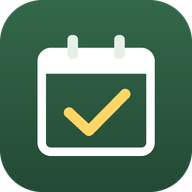
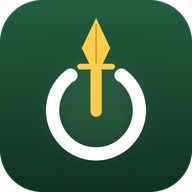
Add files via upload

diff --git a/index.html b/index.html
@@ -3,26 +3,26 @@
 <head>
 <meta charset="utf-8">
 <meta name="viewport" content="width=device-width, initial-scale=1, maximum-scale=1, viewport-fit=cover">
-<title>중대 현황</title>
-<meta name="description" content="휴가·외출·상벌점 현황관리">
-<meta name="theme-color" content="#2f5d43">
+<title>광개토 ON</title>
+<meta name="description" content="광개토 ON — 휴가·외출·상벌점·소통">
+<meta name="theme-color" content="#1e4a33">
 <link rel="manifest" href="manifest.webmanifest">
 <link rel="icon" href="icons/favicon.png">
 <!-- 아이폰 홈 화면용 -->
 <link rel="apple-touch-icon" href="icons/apple-touch-icon.png">
 <meta name="apple-mobile-web-app-capable" content="yes">
 <meta name="mobile-web-app-capable" content="yes">
-<meta name="apple-mobile-web-app-title" content="중대 현황">
+<meta name="apple-mobile-web-app-title" content="광개토 ON">
 <meta name="apple-mobile-web-app-status-bar-style" content="black-translucent">
 <style>
-  html,body{margin:0;height:100%;background:#2f5d43;overflow:hidden;font-family:-apple-system,BlinkMacSystemFont,"Apple SD Gothic Neo","Malgun Gothic",sans-serif}
+  html,body{margin:0;height:100%;background:#1e4a33;overflow:hidden;font-family:-apple-system,BlinkMacSystemFont,"Apple SD Gothic Neo","Malgun Gothic",sans-serif}
   #app{position:fixed;inset:0;width:100%;height:100%;border:0;background:#f2f4f1;padding-top:env(safe-area-inset-top);box-sizing:border-box}
-  body.standalone #app{background:#2f5d43}
+  body.standalone #app{background:#1e4a33}
 
   /* 시작 화면 */
-  #splash{position:fixed;inset:0;z-index:5;background:#2f5d43;display:flex;flex-direction:column;align-items:center;justify-content:center;color:#fff;transition:opacity .35s}
+  #splash{position:fixed;inset:0;z-index:5;background:#1e4a33;display:flex;flex-direction:column;align-items:center;justify-content:center;color:#fff;transition:opacity .35s}
   #splash img{width:96px;height:96px;border-radius:22px;box-shadow:0 8px 24px rgba(0,0,0,.25)}
-  #splash b{margin-top:18px;font-size:20px;letter-spacing:-.3px}
+  #splash b{margin-top:18px;font-size:24px;letter-spacing:-.3px}
   #splash span{margin-top:6px;font-size:13px;opacity:.75}
   #splash.hide{opacity:0;pointer-events:none}
   #splash .dots{display:flex;gap:6px;margin-top:26px}
@@ -41,29 +41,39 @@
   #install .steps{margin:12px 0 0;padding:12px 14px;background:#f2f4f1;border-radius:12px;font-size:14px;line-height:1.7}
   #install .btns{display:grid;grid-template-columns:1fr 2fr;gap:8px;margin-top:12px}
   #install button{min-height:48px;border:0;border-radius:12px;font:inherit;font-size:15px;font-weight:700;background:#f2f4f1;color:#1b211d}
-  #install button.go{background:#2f5d43;color:#fff}
+  #install button.go{background:#1e4a33;color:#fff}
   .share-ic{display:inline-block;width:18px;height:18px;vertical-align:-3px}
+
+  #pushsheet{position:fixed;inset:0;z-index:8;background:rgba(0,0,0,.45);display:none;align-items:flex-end;justify-content:center}
+  #pushsheet.show{display:flex}
+  #pushsheet .in{width:100%;max-width:520px;background:#fff;border-radius:20px 20px 0 0;padding:24px 16px calc(16px + env(safe-area-inset-bottom));text-align:center;color:#1b211d;animation:up .2s ease-out}
+  #pushsheet .bell{width:56px;height:56px;margin:0 auto 12px;border-radius:16px;background:#e2ede5;color:#2f5d43;display:flex;align-items:center;justify-content:center}
+  #pushsheet b{display:block;font-size:18px}
+  #pushsheet p{margin:8px 0 18px;color:#68726c;font-size:14px;line-height:1.5}
+  #pushsheet .two{display:grid;grid-template-columns:1fr 2fr;gap:8px}
+  #pushsheet button{min-height:52px;border:0;border-radius:12px;font:inherit;font-size:16px;font-weight:700;background:#f2f4f1;color:#1b211d}
+  #pushsheet button.go{background:#1e4a33;color:#fff}
 
   #offline{position:fixed;inset:0;z-index:7;background:#f2f4f1;display:none;flex-direction:column;align-items:center;justify-content:center;text-align:center;padding:24px;color:#1b211d}
   #offline.show{display:flex}
-  #offline button{margin-top:18px;min-height:48px;padding:0 28px;border:0;border-radius:12px;background:#2f5d43;color:#fff;font:inherit;font-weight:700}
+  #offline button{margin-top:18px;min-height:48px;padding:0 28px;border:0;border-radius:12px;background:#1e4a33;color:#fff;font:inherit;font-weight:700}
 </style>
 </head>
 <body>
 
 <div id="splash">
   <img src="icons/icon-192.png" alt="">
-  <b>중대 현황</b>
-  <span>휴가 · 외출 · 상벌점</span>
+  <b>광개토 ON</b>
+  <span>출타 · 상벌점 · 소통</span>
   <div class="dots"><i></i><i></i><i></i></div>
 </div>
 
-<iframe id="app" title="중대 현황" allow="clipboard-write"></iframe>
+<iframe id="app" title="광개토 ON" allow="clipboard-write"></iframe>
 
 <div id="install">
   <div class="h">
     <img src="icons/icon-192.png" alt="">
-    <div><b>홈 화면에 앱 설치</b><small>다음부터 아이콘을 눌러 바로 여세요</small></div>
+    <div><b>광개토 ON 설치</b><small>홈 화면에 추가하고 아이콘으로 바로 여세요</small></div>
   </div>
   <div class="steps" id="ios-steps" hidden>
     ① 화면 아래 <b>공유</b> 버튼
@@ -80,16 +90,28 @@
   </div>
 </div>
 
+<div id="pushsheet">
+  <div class="in">
+    <div class="bell"><svg width="28" height="28" viewBox="0 0 24 24" fill="none" stroke="currentColor" stroke-width="2" stroke-linecap="round"><path d="M18 8a6 6 0 0 0-12 0c0 7-3 9-3 9h18s-3-2-3-9"/><path d="M13.7 21a2 2 0 0 1-3.4 0"/></svg></div>
+    <b>알림을 켤까요?</b>
+    <p>가입·상벌점 승인, 의견 답변 같은 소식을<br>휴대폰 알림으로 바로 받을 수 있습니다.</p>
+    <div class="two"><button onclick="closePushSheet(true)">나중에</button><button class="go" onclick="grantPush()">알림 켜기</button></div>
+  </div>
+</div>
+
 <div id="offline">
   <b style="font-size:18px">인터넷에 연결되어 있지 않습니다</b>
   <p style="color:#68726c">연결을 확인한 뒤 다시 시도하세요.</p>
   <button onclick="location.reload()">다시 시도</button>
 </div>
 
+<script src="config.js"></script>
+<script src="https://www.gstatic.com/firebasejs/10.12.2/firebase-app-compat.js"></script>
+<script src="https://www.gstatic.com/firebasejs/10.12.2/firebase-messaging-compat.js"></script>
 <script>
-/* ▼▼▼ 여기에 Apps Script 웹 앱 배포 URL(/exec로 끝나는 주소)을 붙여넣으세요 ▼▼▼ */
-const APP_URL = 'https://script.google.com/macros/s/AKfycbzGSQDQFe9Nc2AeK1xiYHxD8i21XqmICluTHnk5zAM8A0X6tdjQ4a5FkJ4wjKLRf3hy/exec';
-/* ▲▲▲ ---------------------------------------------------------------- ▲▲▲ */
+/* 주소·Firebase 값은 config.js 에서 고치세요 */
+const CFG = self.APP_CONFIG || {};
+const APP_URL = CFG.APP_URL || '';
 
 const standalone = window.matchMedia('(display-mode: standalone)').matches || navigator.standalone === true;
 const ua = navigator.userAgent;
@@ -113,8 +135,69 @@ frame.src = APP_URL;
 window.addEventListener('online', () => document.getElementById('offline').classList.remove('show'));
 window.addEventListener('offline', () => document.getElementById('offline').classList.add('show'));
 
-/* 서비스 워커 (설치 가능 조건 + 오프라인 안내) */
-if ('serviceWorker' in navigator) navigator.serviceWorker.register('sw.js').catch(() => {});
+/* 서비스 워커 (설치 가능 조건 + 오프라인 안내 + 푸시 수신) */
+let swReg = null;
+const swReady = 'serviceWorker' in navigator
+  ? navigator.serviceWorker.register('sw.js').then(r => (swReg = r)).catch(() => null)
+  : Promise.resolve(null);
+
+/* ---------- 앱 푸시 (Firebase) ---------- */
+const FB = CFG.FIREBASE || {};
+const pushConfigured = !!(FB.apiKey && CFG.VAPID_KEY && window.firebase);
+let messaging = null;
+if (pushConfigured){
+  try{
+    firebase.initializeApp(FB);
+    messaging = firebase.messaging();
+    // 앱을 보고 있는 중에 온 알림도 휴대폰 알림창에 표시
+    messaging.onMessage(p => {
+      const n = p.notification || {};
+      swReady.then(r => r && r.showNotification(n.title || '광개토 ON', { body: n.body || '', icon: 'icons/icon-192.png', badge: 'icons/favicon.png' }));
+    });
+  }catch(e){ messaging = null; }
+}
+function pushSupport(){
+  if (!pushConfigured || !messaging) return { ok:false, reason:'not-configured' };
+  if (isIOS && !standalone) return { ok:false, reason:'ios-browser' };
+  if (!('Notification' in window) || !('serviceWorker' in navigator) || !('PushManager' in window)) return { ok:false, reason:'unsupported' };
+  return { ok:true };
+}
+async function getPushToken(){
+  const reg = swReg || await swReady || await navigator.serviceWorker.ready;
+  return messaging.getToken({ vapidKey: CFG.VAPID_KEY, serviceWorkerRegistration: reg });
+}
+// 앱(구글 쪽 화면)과 메시지 주고받기 — 구글 사용자 콘텐츠 주소에서 온 것만 받음
+let pushReply = null;
+window.addEventListener('message', async e => {
+  const d = e.data;
+  if (!d || d.src !== 'unit-app') return;
+  let host = '';
+  try{ host = new URL(e.origin).hostname; }catch(err){}
+  if (!/\.googleusercontent\.com$/.test(host)) return;
+  const reply = m => { try{ e.source.postMessage(Object.assign({ src:'unit-shell' }, m), '*'); }catch(err){} };
+  if (d.type === 'push-status'){
+    const sup = pushSupport();
+    let token = null;
+    if (sup.ok && Notification.permission === 'granted'){ try{ token = await getPushToken(); }catch(err){} }
+    reply({ type:'push-status', supported: sup.ok, reason: sup.reason || '', permission: sup.ok ? Notification.permission : 'unsupported', token, ios: isIOS, standalone });
+  }
+  if (d.type === 'push-enable'){
+    const sup = pushSupport();
+    if (!sup.ok) return reply({ type:'push-unsupported', reason: sup.reason });
+    pushReply = reply;
+    document.getElementById('pushsheet').classList.add('show');
+  }
+});
+function closePushSheet(){ document.getElementById('pushsheet').classList.remove('show'); }
+function grantPush(){
+  const reply = pushReply || (() => {});
+  closePushSheet();
+  Notification.requestPermission().then(async perm => {
+    if (perm !== 'granted') return reply({ type:'push-denied' });
+    try{ reply({ type:'push-token', token: await getPushToken() }); }
+    catch(err){ reply({ type:'push-error', message: String(err && err.message || err) }); }
+  });
+}
 
 /* 설치 안내 */
 let deferred = null;

diff --git a/sw.js b/sw.js
@@ -1,7 +1,20 @@
-/* 앱 껍데기(아이콘·시작화면)만 저장. 실제 데이터는 항상 구글 시트에서 새로 불러옴 */
-const CACHE = 'shell-v1';
-const FILES = ['./', 'index.html', 'manifest.webmanifest', 'icons/icon-192.png', 'icons/icon-512.png', 'icons/apple-touch-icon.png', 'icons/favicon.png'];
+/* 앱 껍데기(아이콘·시작화면)만 저장 + 푸시 수신. 실제 데이터는 항상 구글 시트에서 새로 불러옴 */
+const CACHE = 'shell-v4';
+const FILES = ['./', 'index.html', 'config.js', 'manifest.webmanifest', 'icons/icon-192.png', 'icons/icon-512.png', 'icons/apple-touch-icon.png', 'icons/favicon.png'];
 
+/* ---- 푸시 (Firebase) ---- */
+try {
+  importScripts('config.js');
+  const C = self.APP_CONFIG || {};
+  if (C.FIREBASE && C.FIREBASE.apiKey && C.VAPID_KEY) {
+    importScripts('https://www.gstatic.com/firebasejs/10.12.2/firebase-app-compat.js',
+                  'https://www.gstatic.com/firebasejs/10.12.2/firebase-messaging-compat.js');
+    firebase.initializeApp(C.FIREBASE);
+    firebase.messaging();   // 백그라운드 알림은 Firebase가 자동으로 표시 (누르면 앱이 열림)
+  }
+} catch (e) { /* 푸시 미설정이거나 오프라인 — 앱은 그대로 동작 */ }
+
+/* ---- 캐시 ---- */
 self.addEventListener('install', e => {
   e.waitUntil(caches.open(CACHE).then(c => c.addAll(FILES)).then(() => self.skipWaiting()));
 });
@@ -11,8 +24,7 @@ self.addEventListener('activate', e => {
 self.addEventListener('fetch', e => {
   const url = new URL(e.request.url);
   if (e.request.method !== 'GET' || url.origin !== location.origin) return;   // 구글 쪽 요청은 건드리지 않음
-  // 네트워크 우선, 실패하면 저장본
-  e.respondWith(
+  e.respondWith(   // 네트워크 우선, 실패하면 저장본
     fetch(e.request).then(r => {
       const copy = r.clone();
       caches.open(CACHE).then(c => c.put(e.request, copy));

diff --git a/config.js b/config.js
@@ -1,0 +1,21 @@
+/* ============================================================
+ *  중대 현황 앱 설정 — 이 파일만 고치면 됩니다
+ * ============================================================ */
+self.APP_CONFIG = {
+
+  // ① Apps Script 웹 앱 주소 (/exec 로 끝나는 주소)
+  APP_URL: 'https://script.google.com/macros/s/AKfycbzGSQDQFe9Nc2AeK1xiYHxD8i21XqmICluTHnk5zAM8A0X6tdjQ4a5FkJ4wjKLRf3hy/exec',
+
+  // ② Firebase 콘솔 → 프로젝트 설정 → 일반 → 내 앱(웹) → "SDK 설정 및 구성"의 firebaseConfig 값을 그대로 옮겨 적으세요
+  FIREBASE: {
+    apiKey: 'AIzaSyCfw4yvkJzvbjbc93RiAkwQvMh_MFWeOic',
+    authDomain: 'gwangaetoon.firebaseapp.com',
+    projectId: 'gwangaetoon',
+    storageBucket: 'gwangaetoon.firebasestorage.app',
+    messagingSenderId: '326182366131',
+    appId: '1:326182366131:web:e64684b271a17db5caf9c6',
+  },
+
+  // ③ Firebase 콘솔 → 프로젝트 설정 → 클라우드 메시징 → 웹 푸시 인증서 → "키 쌍" 값
+  VAPID_KEY: 'BFSQKBh12ckQoGnwP7CrhvgfcL9HTLdn525eomIZd3kZ7OZnycdviKCWZGn4Ubo7RL5vx6sM5rOmGi6MIGST_AA',
+};
